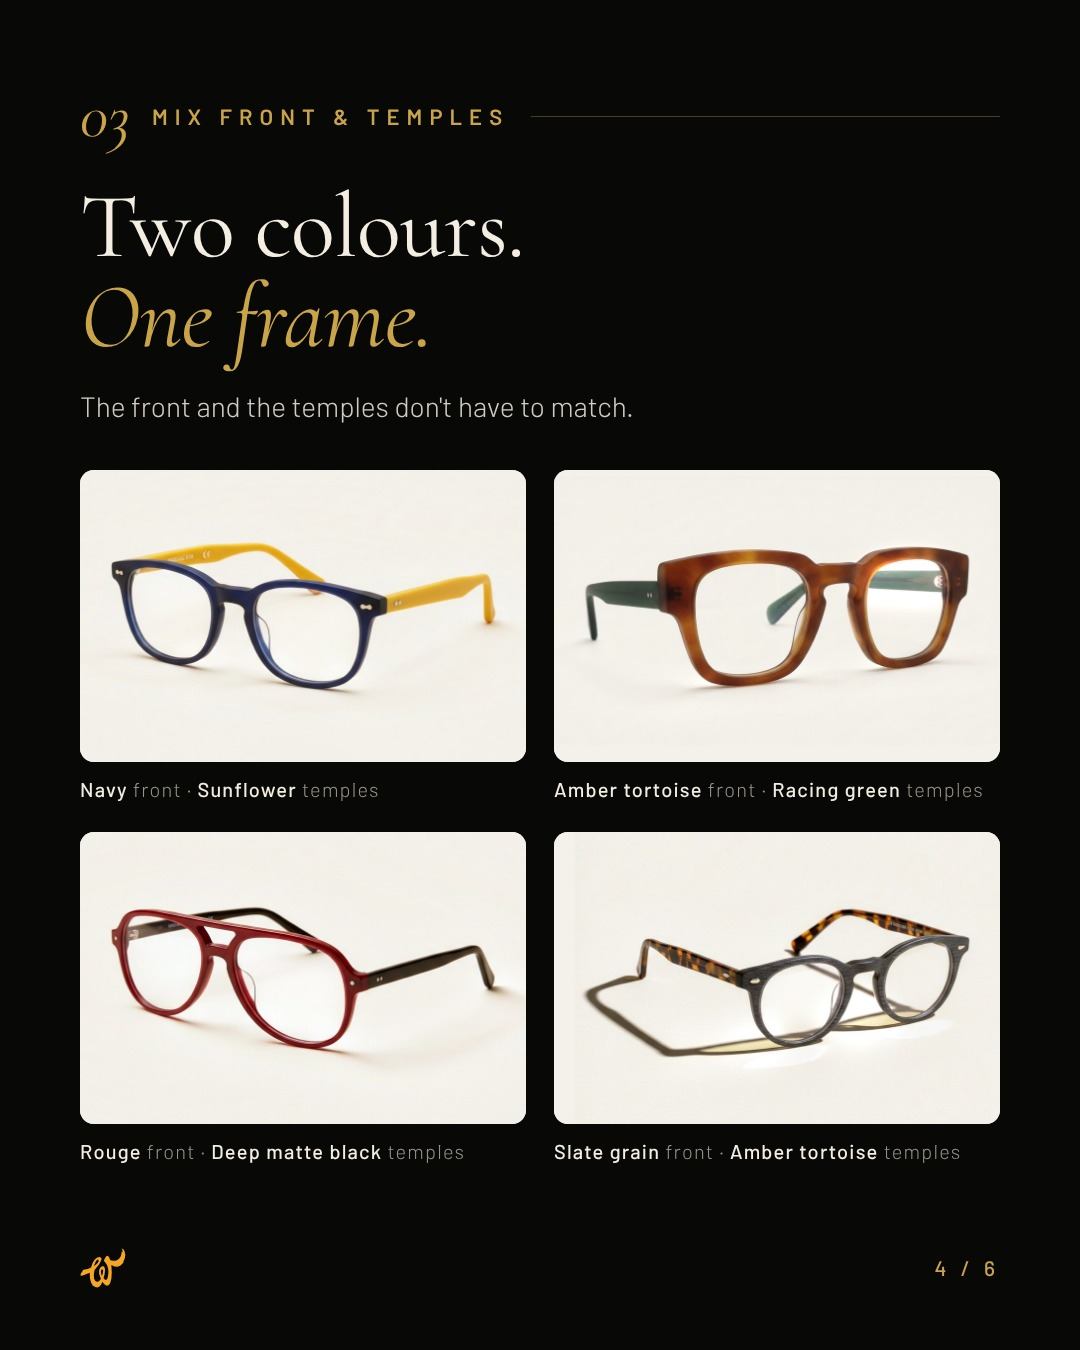
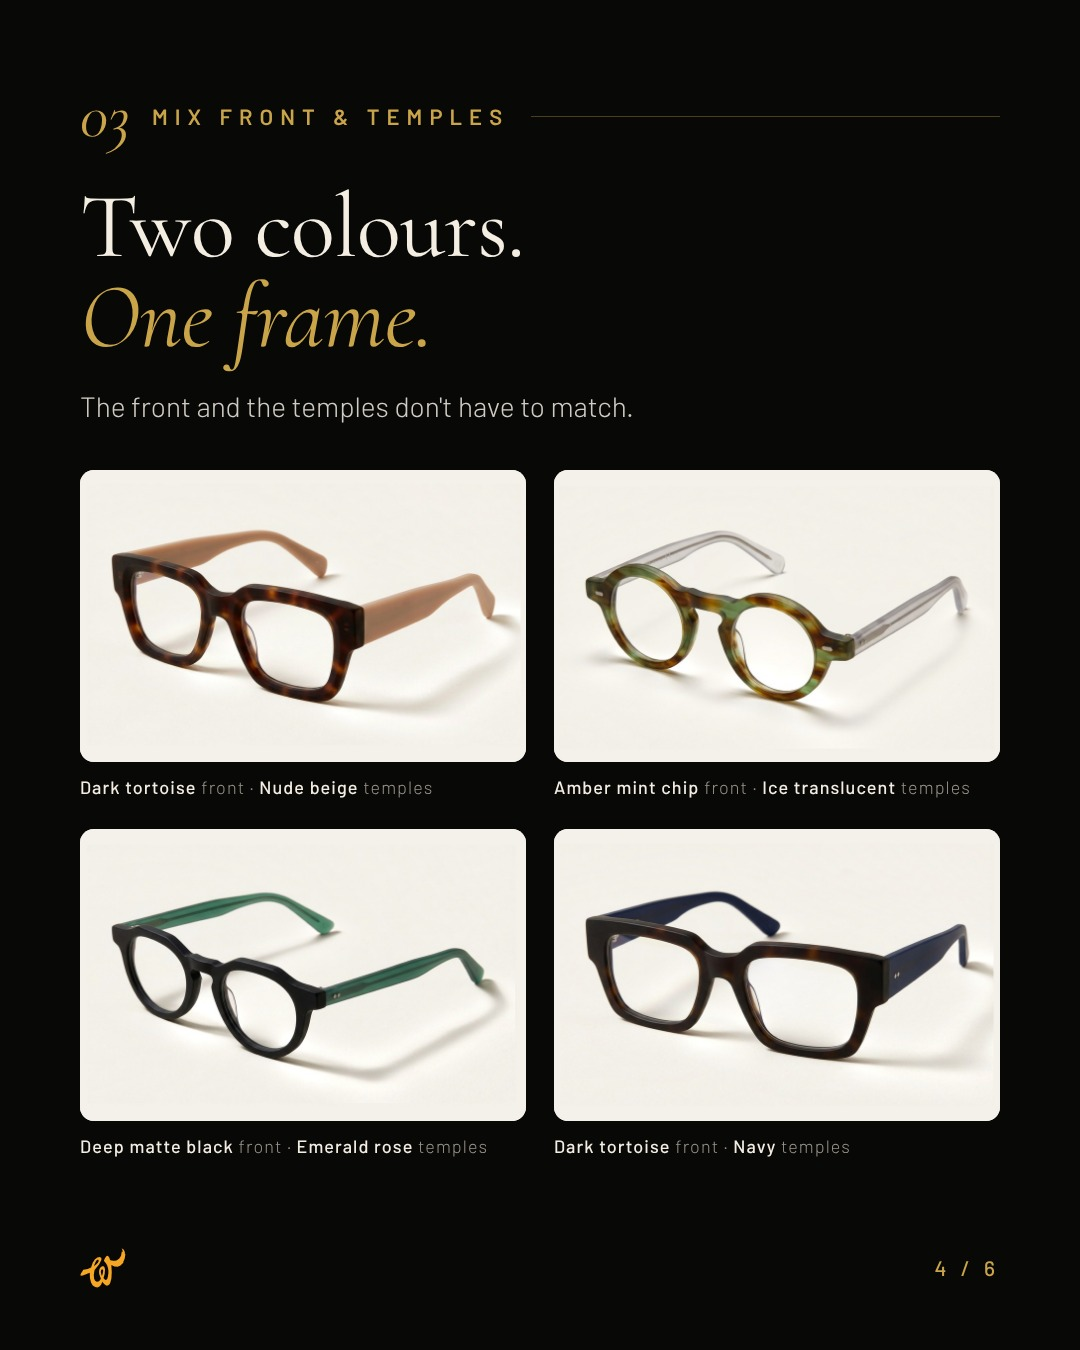
Bespoke social carousel: new angle renders and updated alt text
- Replace the 6 carousel images with the current Bespoke angle renders (front first, temples behind the front)
- Update alt text in manifest.json, /en/creatives/bespoke and its prerender metadata

Claude-Session: https://claude.ai/code/session_015BVqLTsY6fkLJSSjEJbMkw

diff --git a/src/seo/metadata.ts b/src/seo/metadata.ts
@@ -573,11 +573,11 @@ ${shot("woolet-too-small-m9-never-your-face-007-4x5.jpg", "Man in his fifties wi
           "Woolet Bespoke social images: four shapes, 15 Mazzucchelli acetates, two-colour fronts and temples, three finishes.",
         noscriptHtml: `<h1>Woolet Bespoke: design your own glasses</h1>
 <p>Pick the shape, the Mazzucchelli acetate for the front and the temples, and the finish.</p>
-${shot("woolet-bespoke-carousel-01-design-them-4x5.jpg", "Woolet Bespoke custom glasses: round frame with a British racing green acetate front and amber tortoise temples, headline: Don't pick glasses. Design them. Shape, acetate and finish chosen separately.")}
-${shot("woolet-bespoke-carousel-02-four-shapes-4x5.jpg", "Woolet Bespoke frame shapes in amber tortoise acetate: Round, Crown Panto, Rectangle and Aviator glasses, headline: Four shapes. Same acetate.")}
-${shot("woolet-bespoke-carousel-03-acetates-4x5.jpg", "Woolet Bespoke rectangle glasses in six Mazzucchelli acetates: amber tortoise, racing green, deep matte black, ice translucent, rouge and sunflower, headline: 15 Mazzucchelli acetates, hand finished in the EU.")}
-${shot("woolet-bespoke-carousel-04-two-colours-4x5.jpg", "Woolet Bespoke two-colour glasses with a different acetate on the front and the temples: navy with sunflower, amber tortoise with racing green, rouge aviator with deep matte black, slate grain with amber tortoise, headline: Two colours. One frame.")}
-${shot("woolet-bespoke-carousel-05-finishes-4x5.jpg", "Woolet Bespoke Crown Panto glasses in tortoise acetate shown in three finishes: matte, brushed and hand polished.")}
+${shot("woolet-bespoke-carousel-01-design-them-4x5.jpg", "Woolet Bespoke custom glasses: rectangle frame with a British racing green acetate front and amber tortoise temples, headline: Don't pick glasses. Design them. Shape, acetate and finish chosen separately.")}
+${shot("woolet-bespoke-carousel-02-four-shapes-4x5.jpg", "Woolet Bespoke frame shapes with a dark tortoise acetate front and deep matte black temples: Round, Crown Panto, Rectangle and Aviator glasses, headline: Four shapes. Same acetate.")}
+${shot("woolet-bespoke-carousel-03-acetates-4x5.jpg", "Woolet Bespoke rectangle glasses in six Mazzucchelli acetate fronts with black temples: dark tortoise, racing green, navy, ice translucent, emerald rose and nude beige, headline: 15 Mazzucchelli acetates, hand finished in the EU.")}
+${shot("woolet-bespoke-carousel-04-two-colours-4x5.jpg", "Woolet Bespoke two-colour glasses with a different acetate on the front and the temples: dark tortoise with nude beige, amber mint chip with ice translucent, deep matte black with emerald rose, dark tortoise with navy, headline: Two colours. One frame.")}
+${shot("woolet-bespoke-carousel-05-finishes-4x5.jpg", "Woolet Bespoke round glasses in deep matte black acetate shown in three finishes: matte, brushed and hand polished.")}
 ${shot("woolet-bespoke-carousel-06-nobody-else-4x5.jpg", "Woolet Bespoke custom eyeglasses, headline: Nobody else wears yours. 4 shapes, 15 front acetates, 15 temple acetates and 3 finishes make 2,700 builds. Design yours at woolet.co/en/bespoke.")}`,
       },
       { image: "/ads/2026-11-bespoke-social/woolet-bespoke-carousel-01-design-them-4x5.jpg" },

diff --git a/src/pages/creatives/BespokeSocialCreatives.tsx b/src/pages/creatives/BespokeSocialCreatives.tsx
@@ -32,27 +32,27 @@ type Shot = {
 const SHOTS: Shot[] = [
   {
     src: "/ads/2026-11-bespoke-social/woolet-bespoke-carousel-01-design-them-4x5.jpg",
-    alt: "Woolet Bespoke custom glasses: round frame with a British racing green acetate front and amber tortoise temples, headline: Don't pick glasses. Design them. Shape, acetate and finish chosen separately.",
+    alt: "Woolet Bespoke custom glasses: rectangle frame with a British racing green acetate front and amber tortoise temples, headline: Don't pick glasses. Design them. Shape, acetate and finish chosen separately.",
     label: "01 \u00b7 Design them",
   },
   {
     src: "/ads/2026-11-bespoke-social/woolet-bespoke-carousel-02-four-shapes-4x5.jpg",
-    alt: "Woolet Bespoke frame shapes in amber tortoise acetate: Round, Crown Panto, Rectangle and Aviator glasses, headline: Four shapes. Same acetate.",
+    alt: "Woolet Bespoke frame shapes with a dark tortoise acetate front and deep matte black temples: Round, Crown Panto, Rectangle and Aviator glasses, headline: Four shapes. Same acetate.",
     label: "02 \u00b7 Four shapes",
   },
   {
     src: "/ads/2026-11-bespoke-social/woolet-bespoke-carousel-03-acetates-4x5.jpg",
-    alt: "Woolet Bespoke rectangle glasses in six Mazzucchelli acetates: amber tortoise, racing green, deep matte black, ice translucent, rouge and sunflower, headline: 15 Mazzucchelli acetates, hand finished in the EU.",
+    alt: "Woolet Bespoke rectangle glasses in six Mazzucchelli acetate fronts with black temples: dark tortoise, racing green, navy, ice translucent, emerald rose and nude beige, headline: 15 Mazzucchelli acetates, hand finished in the EU.",
     label: "03 \u00b7 Acetates",
   },
   {
     src: "/ads/2026-11-bespoke-social/woolet-bespoke-carousel-04-two-colours-4x5.jpg",
-    alt: "Woolet Bespoke two-colour glasses with a different acetate on the front and the temples: navy with sunflower, amber tortoise with racing green, rouge aviator with deep matte black, slate grain with amber tortoise, headline: Two colours. One frame.",
+    alt: "Woolet Bespoke two-colour glasses with a different acetate on the front and the temples: dark tortoise with nude beige, amber mint chip with ice translucent, deep matte black with emerald rose, dark tortoise with navy, headline: Two colours. One frame.",
     label: "04 \u00b7 Two colours",
   },
   {
     src: "/ads/2026-11-bespoke-social/woolet-bespoke-carousel-05-finishes-4x5.jpg",
-    alt: "Woolet Bespoke Crown Panto glasses in tortoise acetate shown in three finishes: matte, brushed and hand polished.",
+    alt: "Woolet Bespoke round glasses in deep matte black acetate shown in three finishes: matte, brushed and hand polished.",
     label: "05 \u00b7 Finishes",
   },
   {
